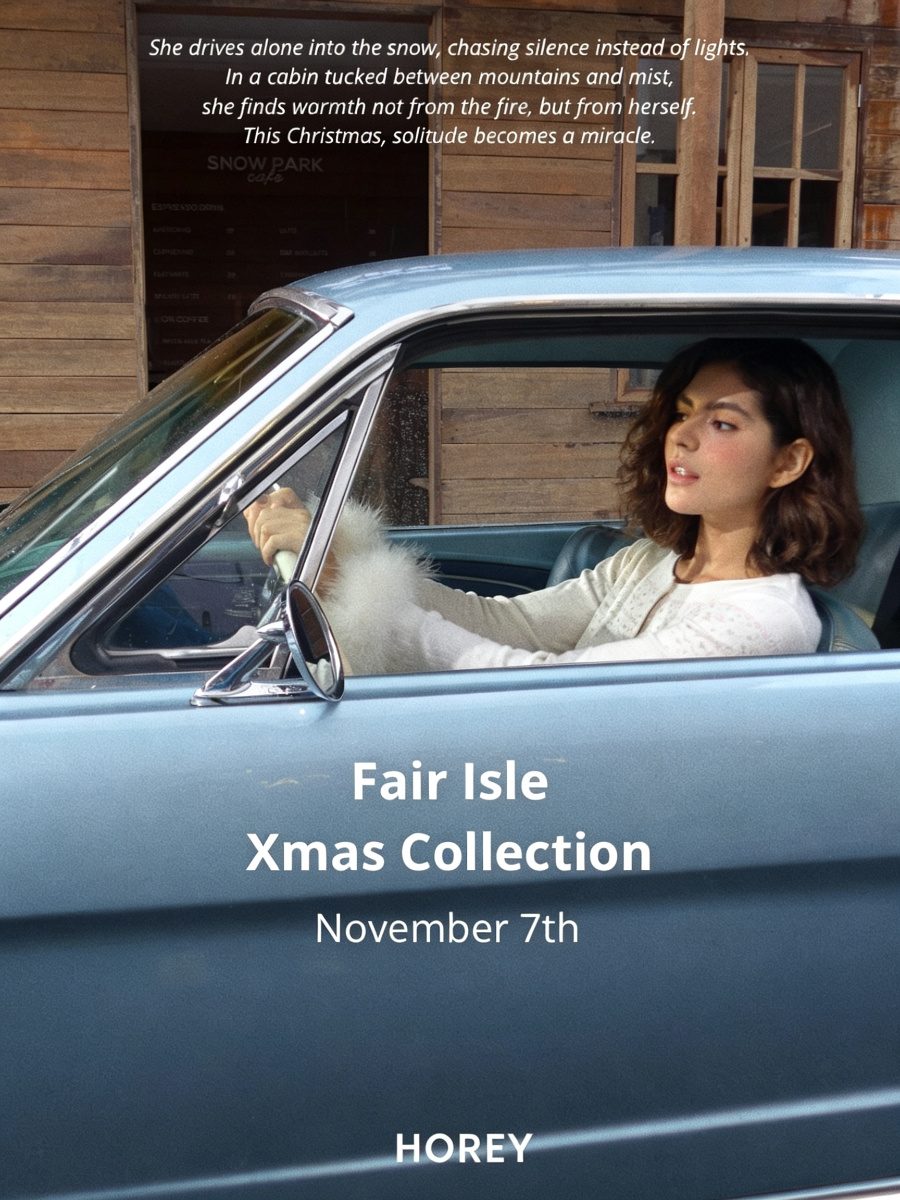
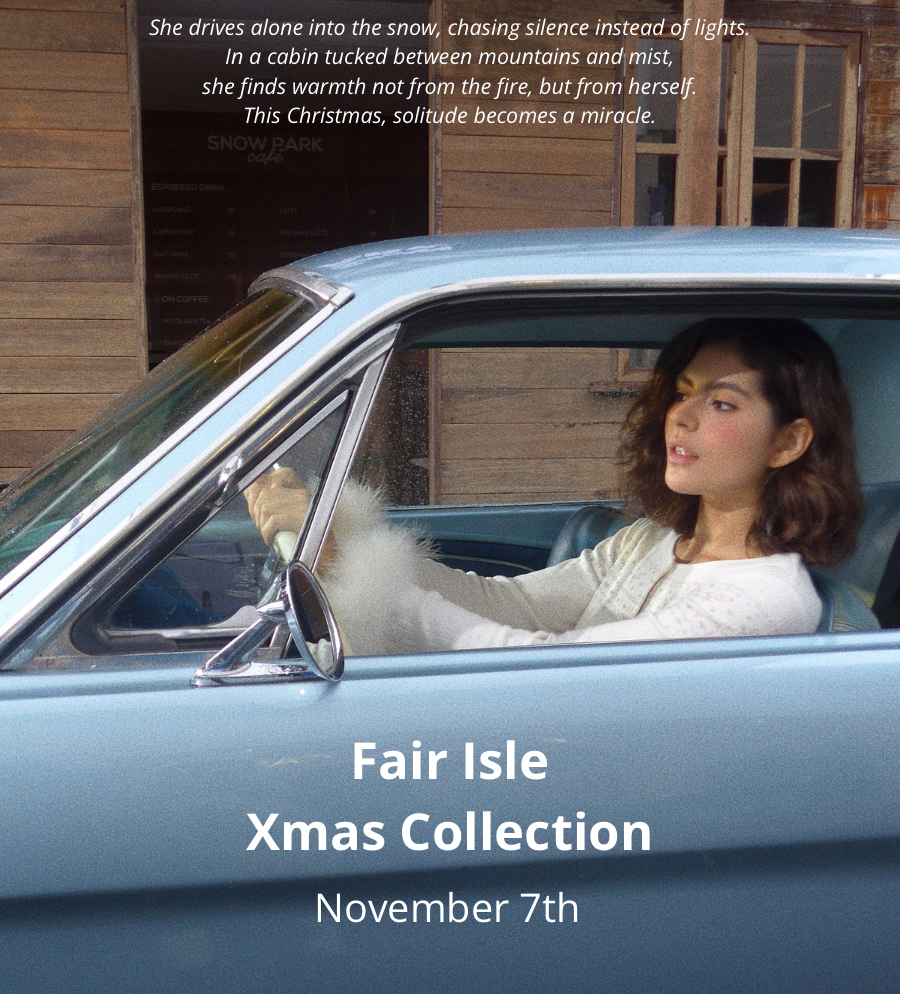
直接替换车内广告原图/静物图比例再调

diff --git a/index.html b/index.html
@@ -83,8 +83,8 @@ a{color:inherit;text-decoration:none}
 .r-1-2 .it:last-child{flex:1 1 calc(66.66% - var(--row-gap))}
 .r-2-1 .it:first-child{flex:1 1 calc(50% - var(--row-gap)/2)}
 .r-2-1 .it:last-child{flex:0 0 38%;max-width:460px;align-self:center;margin-left:auto;display:flex;justify-content:center}
-.r-prod .it:first-child{flex:0 0 38%;max-width:480px;align-self:center;margin-right:auto}
-.r-prod .it:last-child{flex:1 1 calc(62% - var(--row-gap))}
+.r-prod .it:first-child{flex:0 0 44%;max-width:540px;align-self:center;margin-right:auto}
+.r-prod .it:last-child{flex:1 1 calc(56% - var(--row-gap))}
 
 .r-3 .it{flex:1 1 calc(33.33% - var(--row-gap)*2/3)}
 .r-4 .it{flex:1 1 calc(25% - var(--row-gap)*3/4)}
